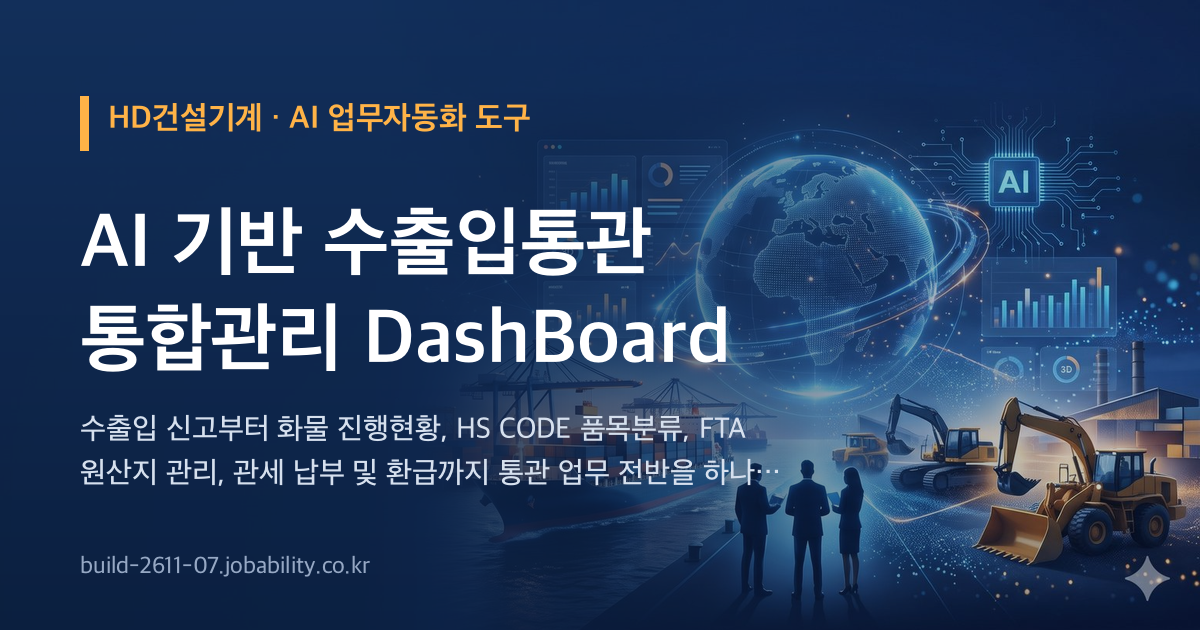
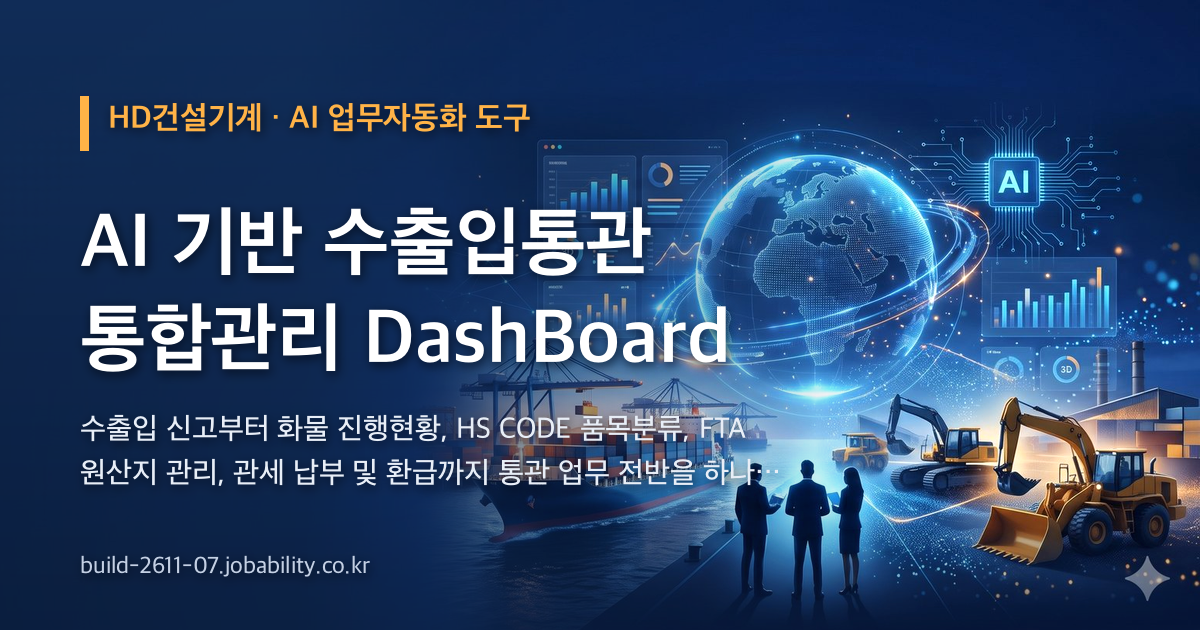
공유 그림 다시(사진 또렷하게) · 판 2026-11-13.12

diff --git a/index.html b/index.html
@@ -12,8 +12,8 @@
 <meta property="og:title" content="HD건설기계 · AI 기반 수출입통관 통합관리 DashBoard">
 <meta property="og:description" content="수출입 신고부터 화물 진행현황, HS CODE 품목분류, FTA 원산지 관리, 관세 납부 및 환급까지 통관 업무 전반을 하나의 Dashboard에서 통합 관리합니다. AI 기반 데이터 분석으로 관세 절감 기회와 통관 리스크를 발굴하고, 더욱 빠르고 정확한 업무 환경을 구현합니다.">
 <meta property="og:url" content="https://build-2611-07.jobability.co.kr/">
-<meta property="og:image" content="https://build-2611-07.jobability.co.kr/og-image.png">
-<meta property="og:image:secure_url" content="https://build-2611-07.jobability.co.kr/og-image.png">
+<meta property="og:image" content="https://build-2611-07.jobability.co.kr/og-image.png?v=2">
+<meta property="og:image:secure_url" content="https://build-2611-07.jobability.co.kr/og-image.png?v=2">
 <meta property="og:image:type" content="image/png">
 <meta property="og:image:width" content="1200">
 <meta property="og:image:height" content="630">
@@ -22,7 +22,7 @@
 <meta name="twitter:card" content="summary_large_image">
 <meta name="twitter:title" content="HD건설기계 · AI 기반 수출입통관 통합관리 DashBoard">
 <meta name="twitter:description" content="수출입 신고부터 화물 진행현황, HS CODE 품목분류, FTA 원산지 관리, 관세 납부 및 환급까지 통관 업무 전반을 하나의 Dashboard에서 통합 관리합니다. AI 기반 데이터 분석으로 관세 절감 기회와 통관 리스크를 발굴하고, 더욱 빠르고 정확한 업무 환경을 구현합니다.">
-<meta name="twitter:image" content="https://build-2611-07.jobability.co.kr/og-image.png">
+<meta name="twitter:image" content="https://build-2611-07.jobability.co.kr/og-image.png?v=2">
 <!-- /seo-kit -->
 <meta name="description" content="수출입 신고부터 화물 진행현황, HS CODE 품목분류, FTA 원산지 관리, 관세 납부 및 환급까지 통관 업무 전반을 하나의 Dashboard에서 통합 관리합니다. AI 기반 데이터 분석으로 관세 절감 기회와 통관 리스크를 발굴하고, 더욱 빠르고 정확한 업무 환경을 구현합니다.">
 <link rel="icon" href="favicon.svg" type="image/svg+xml">
@@ -30,9 +30,9 @@
 <link rel="stylesheet" href="css/app.css">
 <!-- auth-kit: 로그인 전에는 도구 화면을 감춘다(js/auth.js 가 판정 뒤 푼다) -->
 <script>document.documentElement.classList.add('auth-lock')</script>
-<link rel="stylesheet" href="css/auth.css?v=2026-11-13.11">
-<link rel="stylesheet" href="css/board.css?v=2026-11-13.11">
-<link rel="stylesheet" href="css/kit-build.css?v=2026-11-13.11">
+<link rel="stylesheet" href="css/auth.css?v=2026-11-13.12">
+<link rel="stylesheet" href="css/board.css?v=2026-11-13.12">
+<link rel="stylesheet" href="css/kit-build.css?v=2026-11-13.12">
 <!-- /auth-kit -->
 </head>
 <body>
@@ -180,11 +180,11 @@ document.addEventListener('click', function (e) {
 });
 </script>
 <!-- auth-kit: 로그인 · 사용 신청 · 승인 · 게시판(키트 정본 data10-00/kit/auth, 적용 build-2611-00/tools/kit) -->
-<script src="vendor/supabase.js?v=2026-11-13.11"></script>
-<script src="js/auth-config.js?v=2026-11-13.11"></script>
-<script src="js/kit-build.js?v=2026-11-13.11"></script>
-<script src="js/board.js?v=2026-11-13.11"></script>
-<script src="js/auth.js?v=2026-11-13.11"></script>
+<script src="vendor/supabase.js?v=2026-11-13.12"></script>
+<script src="js/auth-config.js?v=2026-11-13.12"></script>
+<script src="js/kit-build.js?v=2026-11-13.12"></script>
+<script src="js/board.js?v=2026-11-13.12"></script>
+<script src="js/auth.js?v=2026-11-13.12"></script>
 <!-- /auth-kit -->
 </body>
 </html>

diff --git a/errors.html b/errors.html
@@ -12,8 +12,8 @@
 <meta property="og:title" content="수출입 오류점수 분석 — 인천 · 울산 · 분기 경계 · 관리대장">
 <meta property="og:description" content="관세청 유니패스 귀책사유자별 오류현황 및 상세목록 엑셀을 올리면 신고번호로 인천 · 울산을 나눠 월별 오류점수, 분기 경계, 항목별 원인, AEO 관리대장 표, 공유 메일 초안을 만듭니다.">
 <meta property="og:url" content="https://build-2611-07.jobability.co.kr/errors.html">
-<meta property="og:image" content="https://build-2611-07.jobability.co.kr/og-image.png">
-<meta property="og:image:secure_url" content="https://build-2611-07.jobability.co.kr/og-image.png">
+<meta property="og:image" content="https://build-2611-07.jobability.co.kr/og-image.png?v=2">
+<meta property="og:image:secure_url" content="https://build-2611-07.jobability.co.kr/og-image.png?v=2">
 <meta property="og:image:type" content="image/png">
 <meta property="og:image:width" content="1200">
 <meta property="og:image:height" content="630">
@@ -22,7 +22,7 @@
 <meta name="twitter:card" content="summary_large_image">
 <meta name="twitter:title" content="수출입 오류점수 분석 — 인천 · 울산 · 분기 경계 · 관리대장">
 <meta name="twitter:description" content="관세청 유니패스 귀책사유자별 오류현황 및 상세목록 엑셀을 올리면 신고번호로 인천 · 울산을 나눠 월별 오류점수, 분기 경계, 항목별 원인, AEO 관리대장 표, 공유 메일 초안을 만듭니다.">
-<meta name="twitter:image" content="https://build-2611-07.jobability.co.kr/og-image.png">
+<meta name="twitter:image" content="https://build-2611-07.jobability.co.kr/og-image.png?v=2">
 <!-- /seo-kit -->
 <meta name="description" content="관세청 유니패스 귀책사유자별 오류현황 및 상세목록 엑셀을 올리면 신고번호로 인천 · 울산을 나눠 월별 오류점수, 분기 경계, 항목별 원인, AEO 관리대장 표, 공유 메일 초안을 만듭니다.">
 <link rel="icon" href="favicon.svg" type="image/svg+xml">
@@ -31,9 +31,9 @@
 <link rel="stylesheet" href="css/dash.css">
 <!-- auth-kit: 로그인 전에는 도구 화면을 감춘다(js/auth.js 가 판정 뒤 푼다) -->
 <script>document.documentElement.classList.add('auth-lock')</script>
-<link rel="stylesheet" href="css/auth.css?v=2026-11-13.11">
-<link rel="stylesheet" href="css/board.css?v=2026-11-13.11">
-<link rel="stylesheet" href="css/kit-build.css?v=2026-11-13.11">
+<link rel="stylesheet" href="css/auth.css?v=2026-11-13.12">
+<link rel="stylesheet" href="css/board.css?v=2026-11-13.12">
+<link rel="stylesheet" href="css/kit-build.css?v=2026-11-13.12">
 <!-- /auth-kit -->
 </head>
 <body>
@@ -112,11 +112,11 @@
 <script src="js/errscore.js"></script>
 <script src="js/errors.js"></script>
 <!-- auth-kit: 로그인 · 사용 신청 · 승인 · 게시판(키트 정본 data10-00/kit/auth, 적용 build-2611-00/tools/kit) -->
-<script src="vendor/supabase.js?v=2026-11-13.11"></script>
-<script src="js/auth-config.js?v=2026-11-13.11"></script>
-<script src="js/kit-build.js?v=2026-11-13.11"></script>
-<script src="js/board.js?v=2026-11-13.11"></script>
-<script src="js/auth.js?v=2026-11-13.11"></script>
+<script src="vendor/supabase.js?v=2026-11-13.12"></script>
+<script src="js/auth-config.js?v=2026-11-13.12"></script>
+<script src="js/kit-build.js?v=2026-11-13.12"></script>
+<script src="js/board.js?v=2026-11-13.12"></script>
+<script src="js/auth.js?v=2026-11-13.12"></script>
 <!-- /auth-kit -->
 </body>
 </html>

diff --git a/tracking.html b/tracking.html
@@ -12,8 +12,8 @@
 <meta property="og:title" content="수입보세화물 추적 — 수출입통관 업무 대시보드">
 <meta property="og:description" content="BL 번호를 등록하고 ERP 엑셀이나 유니패스 조회 결과를 넣으면 입항보고 제출·수입신고 같은 단계가 새로 생긴 건을 골라 관세사·요청자에게 보낼 메일 초안을 만듭니다. 메일은 보내지 않습니다.">
 <meta property="og:url" content="https://build-2611-07.jobability.co.kr/tracking.html">
-<meta property="og:image" content="https://build-2611-07.jobability.co.kr/og-image.png">
-<meta property="og:image:secure_url" content="https://build-2611-07.jobability.co.kr/og-image.png">
+<meta property="og:image" content="https://build-2611-07.jobability.co.kr/og-image.png?v=2">
+<meta property="og:image:secure_url" content="https://build-2611-07.jobability.co.kr/og-image.png?v=2">
 <meta property="og:image:type" content="image/png">
 <meta property="og:image:width" content="1200">
 <meta property="og:image:height" content="630">
@@ -22,7 +22,7 @@
 <meta name="twitter:card" content="summary_large_image">
 <meta name="twitter:title" content="수입보세화물 추적 — 수출입통관 업무 대시보드">
 <meta name="twitter:description" content="BL 번호를 등록하고 ERP 엑셀이나 유니패스 조회 결과를 넣으면 입항보고 제출·수입신고 같은 단계가 새로 생긴 건을 골라 관세사·요청자에게 보낼 메일 초안을 만듭니다. 메일은 보내지 않습니다.">
-<meta name="twitter:image" content="https://build-2611-07.jobability.co.kr/og-image.png">
+<meta name="twitter:image" content="https://build-2611-07.jobability.co.kr/og-image.png?v=2">
 <!-- /seo-kit -->
 <meta name="description" content="BL 번호를 등록하고 ERP 엑셀이나 유니패스 조회 결과를 넣으면 입항보고 제출·수입신고 같은 단계가 새로 생긴 건을 골라 관세사·요청자에게 보낼 메일 초안을 만듭니다. 메일은 보내지 않습니다.">
 <link rel="icon" href="favicon.svg" type="image/svg+xml">
@@ -31,9 +31,9 @@
 <link rel="stylesheet" href="css/dash.css">
 <!-- auth-kit: 로그인 전에는 도구 화면을 감춘다(js/auth.js 가 판정 뒤 푼다) -->
 <script>document.documentElement.classList.add('auth-lock')</script>
-<link rel="stylesheet" href="css/auth.css?v=2026-11-13.11">
-<link rel="stylesheet" href="css/board.css?v=2026-11-13.11">
-<link rel="stylesheet" href="css/kit-build.css?v=2026-11-13.11">
+<link rel="stylesheet" href="css/auth.css?v=2026-11-13.12">
+<link rel="stylesheet" href="css/board.css?v=2026-11-13.12">
+<link rel="stylesheet" href="css/kit-build.css?v=2026-11-13.12">
 <!-- /auth-kit -->
 </head>
 <body>
@@ -167,11 +167,11 @@
 <script src="js/cargo.js"></script>
 <script src="js/track.js"></script>
 <!-- auth-kit: 로그인 · 사용 신청 · 승인 · 게시판(키트 정본 data10-00/kit/auth, 적용 build-2611-00/tools/kit) -->
-<script src="vendor/supabase.js?v=2026-11-13.11"></script>
-<script src="js/auth-config.js?v=2026-11-13.11"></script>
-<script src="js/kit-build.js?v=2026-11-13.11"></script>
-<script src="js/board.js?v=2026-11-13.11"></script>
-<script src="js/auth.js?v=2026-11-13.11"></script>
+<script src="vendor/supabase.js?v=2026-11-13.12"></script>
+<script src="js/auth-config.js?v=2026-11-13.12"></script>
+<script src="js/kit-build.js?v=2026-11-13.12"></script>
+<script src="js/board.js?v=2026-11-13.12"></script>
+<script src="js/auth.js?v=2026-11-13.12"></script>
 <!-- /auth-kit -->
 </body>
 </html>

diff --git a/dashboard.html b/dashboard.html
@@ -12,8 +12,8 @@
 <meta property="og:title" content="대시보드 — 수출입통관 업무 대시보드">
 <meta property="og:description" content="ERP·환급프로그램·관세청에서 내려받은 엑셀을 올리면 수출입 통관 실적, FTA 활용·절감액, 관세환급, 수출입 오류점수를 집계해 보여 줍니다. 파일은 브라우저 안에서만 처리합니다.">
 <meta property="og:url" content="https://build-2611-07.jobability.co.kr/dashboard.html">
-<meta property="og:image" content="https://build-2611-07.jobability.co.kr/og-image.png">
-<meta property="og:image:secure_url" content="https://build-2611-07.jobability.co.kr/og-image.png">
+<meta property="og:image" content="https://build-2611-07.jobability.co.kr/og-image.png?v=2">
+<meta property="og:image:secure_url" content="https://build-2611-07.jobability.co.kr/og-image.png?v=2">
 <meta property="og:image:type" content="image/png">
 <meta property="og:image:width" content="1200">
 <meta property="og:image:height" content="630">
@@ -22,7 +22,7 @@
 <meta name="twitter:card" content="summary_large_image">
 <meta name="twitter:title" content="대시보드 — 수출입통관 업무 대시보드">
 <meta name="twitter:description" content="ERP·환급프로그램·관세청에서 내려받은 엑셀을 올리면 수출입 통관 실적, FTA 활용·절감액, 관세환급, 수출입 오류점수를 집계해 보여 줍니다. 파일은 브라우저 안에서만 처리합니다.">
-<meta name="twitter:image" content="https://build-2611-07.jobability.co.kr/og-image.png">
+<meta name="twitter:image" content="https://build-2611-07.jobability.co.kr/og-image.png?v=2">
 <!-- /seo-kit -->
 <meta name="description" content="ERP·환급프로그램·관세청에서 내려받은 엑셀을 올리면 수출입 통관 실적, FTA 활용·절감액, 관세환급, 수출입 오류점수를 집계해 보여 줍니다. 파일은 브라우저 안에서만 처리합니다.">
 <link rel="icon" href="favicon.svg" type="image/svg+xml">
@@ -31,9 +31,9 @@
 <link rel="stylesheet" href="css/dash.css">
 <!-- auth-kit: 로그인 전에는 도구 화면을 감춘다(js/auth.js 가 판정 뒤 푼다) -->
 <script>document.documentElement.classList.add('auth-lock')</script>
-<link rel="stylesheet" href="css/auth.css?v=2026-11-13.11">
-<link rel="stylesheet" href="css/board.css?v=2026-11-13.11">
-<link rel="stylesheet" href="css/kit-build.css?v=2026-11-13.11">
+<link rel="stylesheet" href="css/auth.css?v=2026-11-13.12">
+<link rel="stylesheet" href="css/board.css?v=2026-11-13.12">
+<link rel="stylesheet" href="css/kit-build.css?v=2026-11-13.12">
 <!-- /auth-kit -->
 </head>
 <body>
@@ -196,11 +196,11 @@ document.addEventListener('click', function (e) {
 });
 </script>
 <!-- auth-kit: 로그인 · 사용 신청 · 승인 · 게시판(키트 정본 data10-00/kit/auth, 적용 build-2611-00/tools/kit) -->
-<script src="vendor/supabase.js?v=2026-11-13.11"></script>
-<script src="js/auth-config.js?v=2026-11-13.11"></script>
-<script src="js/kit-build.js?v=2026-11-13.11"></script>
-<script src="js/board.js?v=2026-11-13.11"></script>
-<script src="js/auth.js?v=2026-11-13.11"></script>
+<script src="vendor/supabase.js?v=2026-11-13.12"></script>
+<script src="js/auth-config.js?v=2026-11-13.12"></script>
+<script src="js/kit-build.js?v=2026-11-13.12"></script>
+<script src="js/board.js?v=2026-11-13.12"></script>
+<script src="js/auth.js?v=2026-11-13.12"></script>
 <!-- /auth-kit -->
 </body>
 </html>

diff --git a/library.html b/library.html
@@ -12,8 +12,8 @@
 <meta property="og:title" content="자료 목록 — 수출입통관 업무 대시보드">
 <meta property="og:description" content="사유서·업무 매뉴얼·통관 서식의 이름·설명·분류·사내 위치를 등록해 두고 찾는 목록입니다. 파일 자체는 저장하지 않습니다.">
 <meta property="og:url" content="https://build-2611-07.jobability.co.kr/library.html">
-<meta property="og:image" content="https://build-2611-07.jobability.co.kr/og-image.png">
-<meta property="og:image:secure_url" content="https://build-2611-07.jobability.co.kr/og-image.png">
+<meta property="og:image" content="https://build-2611-07.jobability.co.kr/og-image.png?v=2">
+<meta property="og:image:secure_url" content="https://build-2611-07.jobability.co.kr/og-image.png?v=2">
 <meta property="og:image:type" content="image/png">
 <meta property="og:image:width" content="1200">
 <meta property="og:image:height" content="630">
@@ -22,7 +22,7 @@
 <meta name="twitter:card" content="summary_large_image">
 <meta name="twitter:title" content="자료 목록 — 수출입통관 업무 대시보드">
 <meta name="twitter:description" content="사유서·업무 매뉴얼·통관 서식의 이름·설명·분류·사내 위치를 등록해 두고 찾는 목록입니다. 파일 자체는 저장하지 않습니다.">
-<meta name="twitter:image" content="https://build-2611-07.jobability.co.kr/og-image.png">
+<meta name="twitter:image" content="https://build-2611-07.jobability.co.kr/og-image.png?v=2">
 <!-- /seo-kit -->
 <meta name="description" content="사유서·업무 매뉴얼·통관 서식의 이름·설명·분류·사내 위치를 등록해 두고 찾는 목록입니다. 파일 자체는 저장하지 않습니다.">
 <link rel="icon" href="favicon.svg" type="image/svg+xml">
@@ -31,9 +31,9 @@
 <link rel="stylesheet" href="css/dash.css">
 <!-- auth-kit: 로그인 전에는 도구 화면을 감춘다(js/auth.js 가 판정 뒤 푼다) -->
 <script>document.documentElement.classList.add('auth-lock')</script>
-<link rel="stylesheet" href="css/auth.css?v=2026-11-13.11">
-<link rel="stylesheet" href="css/board.css?v=2026-11-13.11">
-<link rel="stylesheet" href="css/kit-build.css?v=2026-11-13.11">
+<link rel="stylesheet" href="css/auth.css?v=2026-11-13.12">
+<link rel="stylesheet" href="css/board.css?v=2026-11-13.12">
+<link rel="stylesheet" href="css/kit-build.css?v=2026-11-13.12">
 <!-- /auth-kit -->
 </head>
 <body>
@@ -94,11 +94,11 @@
 <script src="js/customs.js"></script>
 <script src="js/library.js"></script>
 <!-- auth-kit: 로그인 · 사용 신청 · 승인 · 게시판(키트 정본 data10-00/kit/auth, 적용 build-2611-00/tools/kit) -->
-<script src="vendor/supabase.js?v=2026-11-13.11"></script>
-<script src="js/auth-config.js?v=2026-11-13.11"></script>
-<script src="js/kit-build.js?v=2026-11-13.11"></script>
-<script src="js/board.js?v=2026-11-13.11"></script>
-<script src="js/auth.js?v=2026-11-13.11"></script>
+<script src="vendor/supabase.js?v=2026-11-13.12"></script>
+<script src="js/auth-config.js?v=2026-11-13.12"></script>
+<script src="js/kit-build.js?v=2026-11-13.12"></script>
+<script src="js/board.js?v=2026-11-13.12"></script>
+<script src="js/auth.js?v=2026-11-13.12"></script>
 <!-- /auth-kit -->
 </body>
 </html>

diff --git a/guide.html b/guide.html
@@ -12,8 +12,8 @@
 <meta property="og:title" content="사용법 — 수출입통관 업무 대시보드">
 <meta property="og:description" content="ERP·환급프로그램·관세청에서 내려받은 엑셀을 올리면 수출입 통관 실적(본부·국가·업체·HS 4단위), FTA 활용·절감액, 본부별 월별 관세환급, 수출입 오류점수, 품목분류 결정문 현황을 한 화면에서 집계하는 대시보드입니다. 열 이름이 달라도 같은 뜻 낱말로 찾고, 못 찾은 열은 사용">
 <meta property="og:url" content="https://build-2611-07.jobability.co.kr/guide.html">
-<meta property="og:image" content="https://build-2611-07.jobability.co.kr/og-image.png">
-<meta property="og:image:secure_url" content="https://build-2611-07.jobability.co.kr/og-image.png">
+<meta property="og:image" content="https://build-2611-07.jobability.co.kr/og-image.png?v=2">
+<meta property="og:image:secure_url" content="https://build-2611-07.jobability.co.kr/og-image.png?v=2">
 <meta property="og:image:type" content="image/png">
 <meta property="og:image:width" content="1200">
 <meta property="og:image:height" content="630">
@@ -22,7 +22,7 @@
 <meta name="twitter:card" content="summary_large_image">
 <meta name="twitter:title" content="사용법 — 수출입통관 업무 대시보드">
 <meta name="twitter:description" content="ERP·환급프로그램·관세청에서 내려받은 엑셀을 올리면 수출입 통관 실적(본부·국가·업체·HS 4단위), FTA 활용·절감액, 본부별 월별 관세환급, 수출입 오류점수, 품목분류 결정문 현황을 한 화면에서 집계하는 대시보드입니다. 열 이름이 달라도 같은 뜻 낱말로 찾고, 못 찾은 열은 사용">
-<meta name="twitter:image" content="https://build-2611-07.jobability.co.kr/og-image.png">
+<meta name="twitter:image" content="https://build-2611-07.jobability.co.kr/og-image.png?v=2">
 <!-- /seo-kit -->
 <link rel="icon" href="favicon.svg" type="image/svg+xml">
 <link rel="stylesheet" href="css/style.css">

diff --git a/plan.html b/plan.html
@@ -12,8 +12,8 @@
 <meta property="og:title" content="기획서 — 수출입통관 업무 대시보드">
 <meta property="og:description" content="ERP·환급프로그램·관세청에서 내려받은 엑셀을 올리면 수출입 통관 실적(본부·국가·업체·HS 4단위), FTA 활용·절감액, 본부별 월별 관세환급, 수출입 오류점수, 품목분류 결정문 현황을 한 화면에서 집계하는 대시보드입니다. 열 이름이 달라도 같은 뜻 낱말로 찾고, 못 찾은 열은 사용">
 <meta property="og:url" content="https://build-2611-07.jobability.co.kr/plan.html">
-<meta property="og:image" content="https://build-2611-07.jobability.co.kr/og-image.png">
-<meta property="og:image:secure_url" content="https://build-2611-07.jobability.co.kr/og-image.png">
+<meta property="og:image" content="https://build-2611-07.jobability.co.kr/og-image.png?v=2">
+<meta property="og:image:secure_url" content="https://build-2611-07.jobability.co.kr/og-image.png?v=2">
 <meta property="og:image:type" content="image/png">
 <meta property="og:image:width" content="1200">
 <meta property="og:image:height" content="630">
@@ -22,7 +22,7 @@
 <meta name="twitter:card" content="summary_large_image">
 <meta name="twitter:title" content="기획서 — 수출입통관 업무 대시보드">
 <meta name="twitter:description" content="ERP·환급프로그램·관세청에서 내려받은 엑셀을 올리면 수출입 통관 실적(본부·국가·업체·HS 4단위), FTA 활용·절감액, 본부별 월별 관세환급, 수출입 오류점수, 품목분류 결정문 현황을 한 화면에서 집계하는 대시보드입니다. 열 이름이 달라도 같은 뜻 낱말로 찾고, 못 찾은 열은 사용">
-<meta name="twitter:image" content="https://build-2611-07.jobability.co.kr/og-image.png">
+<meta name="twitter:image" content="https://build-2611-07.jobability.co.kr/og-image.png?v=2">
 <!-- /seo-kit -->
 <link rel="icon" href="favicon.svg" type="image/svg+xml">
 <link rel="stylesheet" href="css/style.css">

diff --git a/report.html b/report.html
@@ -12,8 +12,8 @@
 <meta property="og:title" content="평가보고서 — 수출입통관 업무 대시보드">
 <meta property="og:description" content="수출입통관 업무 대시보드 점검 · 평가보고서(2026-11-13) — 사이트 점검, 기능과 시험, 인계 준비, 판 이력, 한계.">
 <meta property="og:url" content="https://build-2611-07.jobability.co.kr/report.html">
-<meta property="og:image" content="https://build-2611-07.jobability.co.kr/og-image.png">
-<meta property="og:image:secure_url" content="https://build-2611-07.jobability.co.kr/og-image.png">
+<meta property="og:image" content="https://build-2611-07.jobability.co.kr/og-image.png?v=2">
+<meta property="og:image:secure_url" content="https://build-2611-07.jobability.co.kr/og-image.png?v=2">
 <meta property="og:image:type" content="image/png">
 <meta property="og:image:width" content="1200">
 <meta property="og:image:height" content="630">
@@ -22,7 +22,7 @@
 <meta name="twitter:card" content="summary_large_image">
 <meta name="twitter:title" content="평가보고서 — 수출입통관 업무 대시보드">
 <meta name="twitter:description" content="수출입통관 업무 대시보드 점검 · 평가보고서(2026-11-13) — 사이트 점검, 기능과 시험, 인계 준비, 판 이력, 한계.">
-<meta name="twitter:image" content="https://build-2611-07.jobability.co.kr/og-image.png">
+<meta name="twitter:image" content="https://build-2611-07.jobability.co.kr/og-image.png?v=2">
 <!-- /seo-kit -->
 <meta name="description" content="수출입통관 업무 대시보드 점검 · 평가보고서(2026-11-13) — 사이트 점검, 기능과 시험, 인계 준비, 판 이력, 한계.">
 <link rel="icon" href="favicon.svg" type="image/svg+xml">
